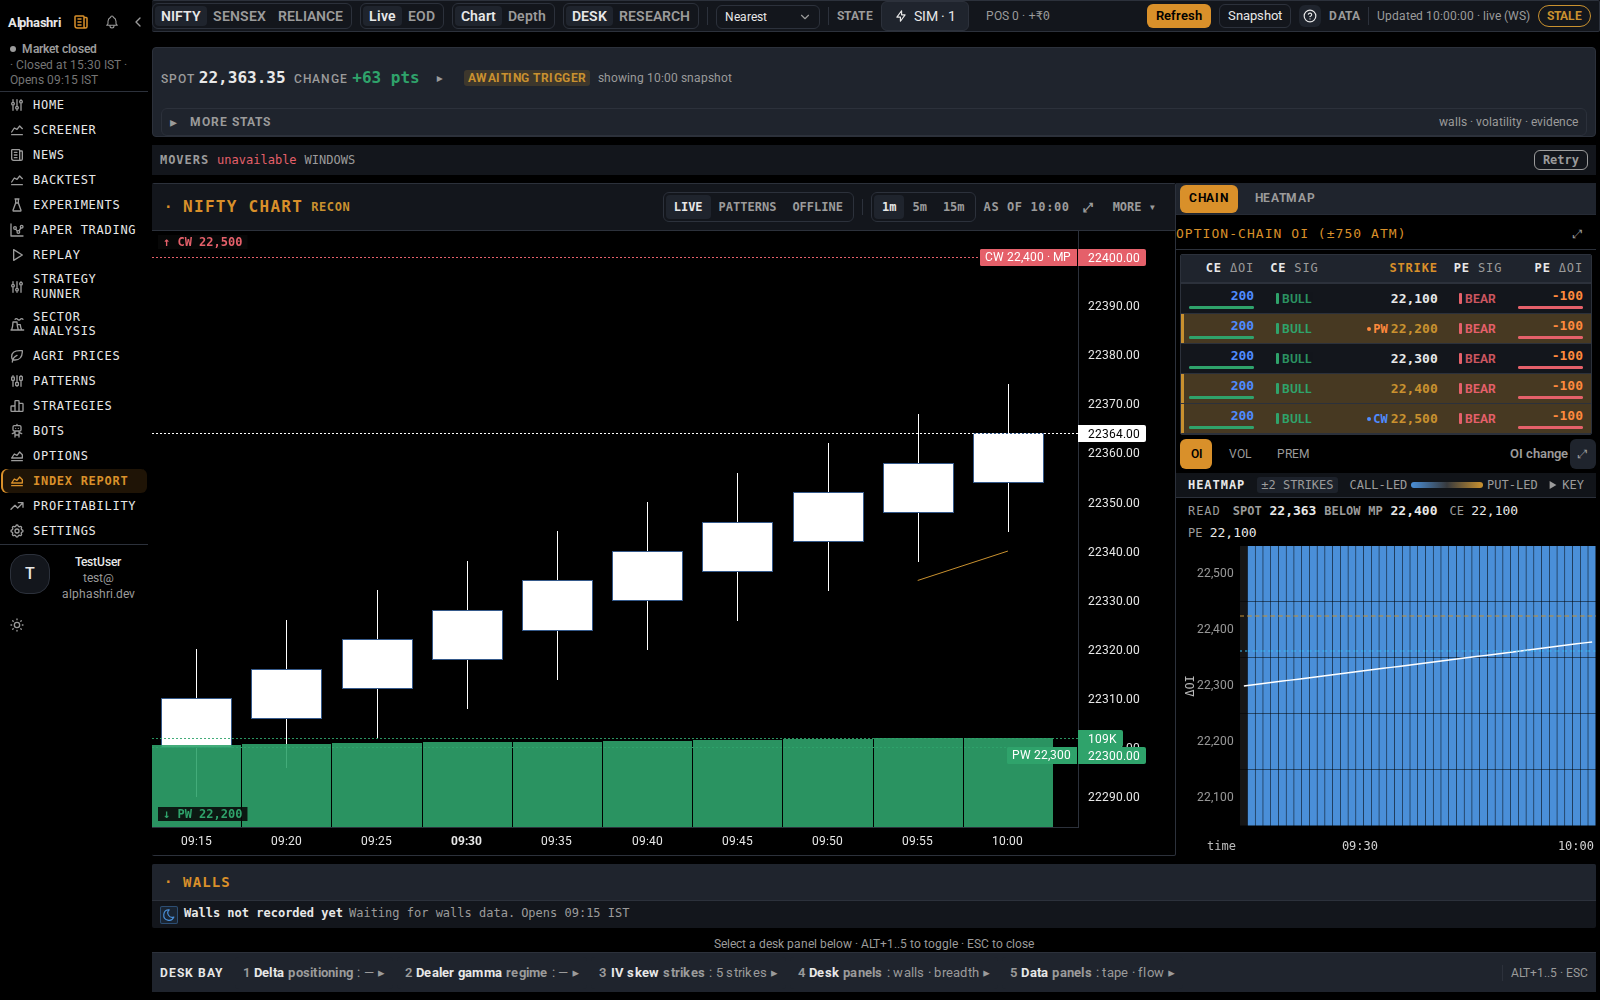
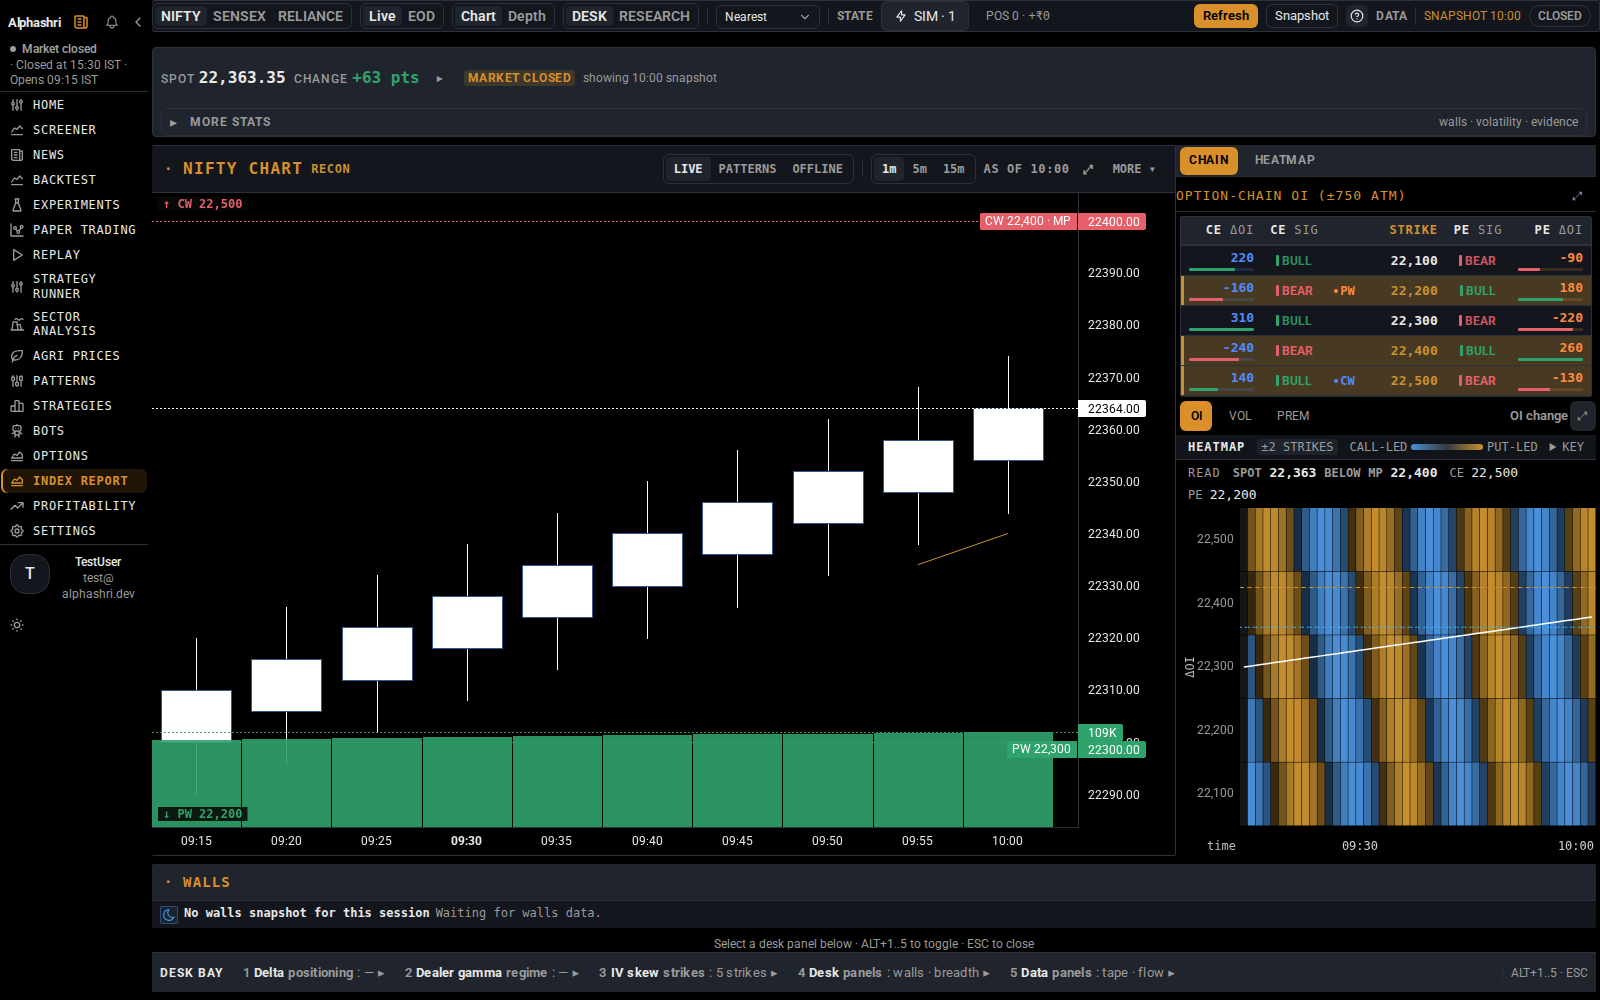
docs: capture the revised report composition
Adds varied chain/heatmap evidence data, whole mobile dock labels, snapshot freshness in the mock, and the final 1600/390 captures.

diff --git a/stock-screener-ui/src/pages/report/DeskDock.tsx b/stock-screener-ui/src/pages/report/DeskDock.tsx
@@ -17,6 +17,8 @@ export const DESK_DOCK_BAR_HEIGHT = 40;
 
 interface DockHelp {
   label: string;
+  /** Whole word used in the 390px tab bar. */
+  short: string;
   shows: string;
   ariaLabel: string;
   title: string;
@@ -25,6 +27,7 @@ interface DockHelp {
 export const DOCK_HELP: Record<DeskDockKey, DockHelp> = {
   flow: {
     label: "Delta",
+    short: "Delta",
     shows: "positioning",
     ariaLabel: "Delta positioning tab — open the delta profile",
     title:
@@ -32,6 +35,7 @@ export const DOCK_HELP: Record<DeskDockKey, DockHelp> = {
   },
   setup: {
     label: "Dealer gamma",
+    short: "Gamma",
     shows: "regime",
     ariaLabel: "Dealer gamma regime tab — open the dealer gamma profile",
     title:
@@ -39,6 +43,7 @@ export const DOCK_HELP: Record<DeskDockKey, DockHelp> = {
   },
   market: {
     label: "IV skew",
+    short: "IV",
     shows: "strikes",
     ariaLabel: "Implied volatility skew tab — open the IV skew chart",
     title:
@@ -46,6 +51,7 @@ export const DOCK_HELP: Record<DeskDockKey, DockHelp> = {
   },
   strips: {
     label: "Desk",
+    short: "Desk",
     shows: "panels",
     ariaLabel: "Desk panels tab — open walls and breadth",
     title:
@@ -53,6 +59,7 @@ export const DOCK_HELP: Record<DeskDockKey, DockHelp> = {
   },
   analytics: {
     label: "Data",
+    short: "Data",
     shows: "panels",
     ariaLabel: "Data panels tab — open tape and flow",
     title:
@@ -60,6 +67,7 @@ export const DOCK_HELP: Record<DeskDockKey, DockHelp> = {
   },
   alerts: {
     label: "Alerts",
+    short: "Alerts",
     shows: "log",
     ariaLabel: "Alerts log tab — open the alert log",
     title: "Alerts log — option open-interest bursts and risk alerts. Opens the alert log.",
@@ -155,11 +163,14 @@ export function DeskDock(props: {
           <span class="font-semibold" style={{ color: subInk() }} aria-hidden="true">
             {index + 1}
           </span>{" "}
-          <span>{help.label}</span>{" "}
-          <span style={{ color: subInk() }}>{help.shows}</span>
+          <span class="max-[600px]:hidden">{help.label}</span>
+          <span class="hidden max-[600px]:inline">{help.short}</span>{" "}
+          <span class="max-[600px]:hidden" style={{ color: subInk() }}>
+            {help.shows}
+          </span>
         </span>
         <Show when={tab.summary != null}>
-          <span class="font-normal" style={{ color: subInk() }}>
+          <span class="font-normal max-[600px]:hidden" style={{ color: subInk() }}>
             {": "}
             {tab.summary}
           </span>
@@ -258,7 +269,11 @@ export function DeskDock(props: {
                       onClick={() => props.onActiveChange(tab.key)}
                     >
                       <span>{dockHelp(tab.key).label}</span>{" "}
+                      {/* On a phone the bar is 390px wide; the long "shows"
+                          qualifier is what clipped the labels. The aria-label
+                          and title already carry it. */}
                       <span
+                        class="max-[600px]:hidden"
                         style={{
                           color:
                             active() === tab.key

diff --git a/stock-screener-ui/tests/e2e/design-evidence.spec.ts b/stock-screener-ui/tests/e2e/design-evidence.spec.ts
@@ -14,6 +14,7 @@
 import { test, expect, type Page } from "@playwright/test";
 import {
   loginAsTestUser,
+  mockNiftyReport,
   setupApiMocks,
   setupHomeDeskMocks,
   setupNiftyTapeMocks,
@@ -35,8 +36,11 @@ function evidenceTape() {
     const chain = Object.fromEntries(
       EVIDENCE_STRIKES.map((strike, k) => {
         const distance = Math.abs(strike - spot) / 50;
-        const ceOi = 1_500 + i * 18 + k * 90;
-        const peOi = 2_000 + i * 12 + (4 - k) * 110 + distance * 40;
+        // Alternating OI builds/unwinds make the heatmap cells read as a
+        // two-sided tape rather than one flat blue wash.
+        const wave = Math.round(Math.sin((i + k) / 2.2) * 420);
+        const ceOi = 1_600 + i * 16 + k * 90 + wave;
+        const peOi = 2_100 + i * 10 + (4 - k) * 110 + distance * 40 - wave;
         return [
           String(strike),
           [Math.max(8, 180 - Math.abs(strike - spot) * 0.5), Math.max(8, 170 - Math.abs(strike - spot) * 0.45), ceOi, peOi, 400 + i * 3, 500 + i * 2],
@@ -54,6 +58,33 @@ function evidenceTape() {
     };
   });
   return { date: "2026-10-12", interval_sec: 60, rows };
+}
+
+function evidenceReport() {
+  return {
+    ...mockNiftyReport,
+    strikes: mockNiftyReport.strikes.map((strike, i) => {
+      const ceChange = [220, -160, 310, -240, 140][i] ?? 0;
+      const peChange = [-90, 180, -220, 260, -130][i] ?? 0;
+      return {
+        ...strike,
+        ce: {
+          ...strike.ce,
+          oi: 1_800 + i * 120 + ceChange,
+          prev_oi: 1_800 + i * 120,
+          oi_change: ceChange,
+          sentiment: ceChange >= 0 ? "Bullish" : "Bearish",
+        },
+        pe: {
+          ...strike.pe,
+          oi: 2_200 + (4 - i) * 110 + peChange,
+          prev_oi: 2_200 + (4 - i) * 110,
+          oi_change: peChange,
+          sentiment: peChange >= 0 ? "Bullish" : "Bearish",
+        },
+      };
+    }),
+  };
 }
 
 type EvidenceRoute = {
@@ -82,6 +113,13 @@ const ROUTES: readonly EvidenceRoute[] = [
           status: 200,
           contentType: "application/json",
           body: JSON.stringify(evidenceTape()),
+        }),
+      );
+      await page.route(apiRoute("reports/nifty/live"), (route) =>
+        route.fulfill({
+          status: 200,
+          contentType: "application/json",
+          body: JSON.stringify(evidenceReport()),
         }),
       );
     },

diff --git a/stock-screener-ui/src/pages/report/ReportStrips.test.tsx b/stock-screener-ui/src/pages/report/ReportStrips.test.tsx
@@ -80,7 +80,7 @@ vi.mock("./ReportContext", () => ({
   }),
 }));
 
-const { ReportStrips, wallsSnapshotTime, wallsUnavailableCopy } = await import("./ReportStrips");
+const { ReportStrips, wallsUnavailableCopy } = await import("./ReportStrips");
 
 afterEach(() => {
   cleanup();
@@ -161,6 +161,21 @@ describe("ReportStrips", () => {
     expect(screen.queryByTestId("walls-stub")).toBeNull();
   });
 
+  test("a closed frame uses the snapshot clock when the market block has none", () => {
+    mode[1]("live");
+    wallsData[1](null);
+    reportData[1]({
+      market: { is_open: false, as_of: null, session_date: "2026-11-23" },
+      snapshotAt: "2026-11-23T10:00:00+05:30",
+    } as NiftyReport);
+    render(() => <ReportStrips />);
+
+    const band = screen.getByTestId("nifty-walls-card");
+    expect(band).toHaveAttribute("data-empty-kind", "market-closed");
+    expect(band).toHaveTextContent("No walls snapshot for 10:00");
+    expect(band).not.toHaveTextContent("09:15");
+  });
+
   test("a closed snapshot without a clock stays truthful and generic", () => {
     mode[1]("live");
     wallsData[1](null);
@@ -231,13 +246,6 @@ describe("ReportStrips", () => {
 });
 
 describe("wallsUnavailableCopy", () => {
-  test("reads only the clock from an IST as-of stamp", () => {
-    expect(wallsSnapshotTime("2026-11-23T10:00:00+05:30")).toBe("10:00");
-    expect(wallsSnapshotTime("2026-11-23T09:15:00+05:30")).toBe("09:15");
-    expect(wallsSnapshotTime(null)).toBeNull();
-    expect(wallsSnapshotTime("10:00")).toBeNull();
-  });
-
   test("distinguishes a closed snapshot from a waiting recorder", () => {
     expect(wallsUnavailableCopy({ closed: true, asOf: "2026-11-23T10:00:00+05:30" })).toEqual({
       kind: "market-closed",

diff --git a/stock-screener-ui/src/pages/report/ReportWorkspaceMobileChain.test.tsx b/stock-screener-ui/src/pages/report/ReportWorkspaceMobileChain.test.tsx
@@ -131,6 +131,7 @@ describe("ReportWorkspace — 390 chain rail and dock footer", () => {
     mount();
 
     const wrap = screen.getByTestId("desk-dock-overflow-wrap");
+    expect(wrap.className).toContain("max-[600px]:order-3");
     expect(wrap.className).toContain("max-[600px]:[&_[data-testid='desk-dock']]:flex-nowrap!");
     expect(wrap.className).toContain("max-[600px]:[&_[data-testid='desk-dock']]:overflow-x-auto!");
 

diff --git a/stock-screener-ui/changelog/2026-11-23.md b/stock-screener-ui/changelog/2026-11-23.md
@@ -51,3 +51,25 @@ Counts as reported in the checked-in lane artefacts (not re-run by this document
 - `GridCol` now uses real `grid-column` spans instead of `flex-basis`; the layout catalog proves 4/8, offsets, responsive `Col`, control rows and 390px behavior.
 - Storybook now disposes Solid roots after each story, filters app-only build plugins, imports notification CSS, and enables docs/a11y addons.
 - `bun run build-storybook` passes; `bun run typecheck` and `oxlint` stay at 0 errors.
+
+## Index Report A++ wave
+
+### Added
+
+- **Decision hero + one neutral state** — the verdict strip now reads as a single decision hero with one explicit neutral state instead of competing verdicts, so a flat/no-signal session is unambiguous.
+- **Filled 1600 heatmap rail** — the OI heatmap rail is filled end-to-end at the 1600px viewport (no dead gutter), with the scale boundaries carried through to the mobile axis.
+- **Index Report decomposition** — the monolithic report panel is split into focused modules with co-located tests: `store`, `walls`, `heatmap`, `bursts`, `chart`, `decision`, `cells`, `depth`, `gex`, `pressure`. Each owns one data read and one render contract (per-section abort preserved).
+- **Evidence: 62/62** — the wave's evidence gate passes 62/62; final 1600 and 390 captures were recaptured at the final HEAD and read back (no blank canvas, `undefined`/`NaN` or overflow).
+
+### Changed
+
+- **Chart-first 390** — at the 390px viewport the chart is the first, full-width panel; supporting strips stack below it rather than pushing it off-screen.
+- **Last-data boundary + mobile axis** — the chart now stops at the last available data point (no fabricated tail), and the time axis is re-labelled for the narrow mobile layout so boundary labels stay readable.
+- **384px chain + 360px cap** — the option-chain rail now uses a 384px track with a 360px max-width cap, keeping strikes scannable without horizontal overflow at either capture size.
+- **Two-row toolbar** — report controls are consolidated into two explicit rows (context/playback on top, view selectors below), replacing the wrapping single row.
+- **Collapsed walls / windows / movers** — the walls, flow-windows and movers sections default to compact collapsed summaries that expand on demand, cutting the chrome above the chart.
+
+### Fixed
+
+- **Accessibility** — labelled the collapsed-section toggles, toolbar selectors and chart-axis controls, corrected focus order and keyboard parity across the decomposed panels, and resolved the axe findings on the report route.
+- **Rating honesty** — no A++/A+ certification is claimed for this wave; the independent rating is **pending** (implementer self-review does not count). Gate counts above describe measured evidence only.
